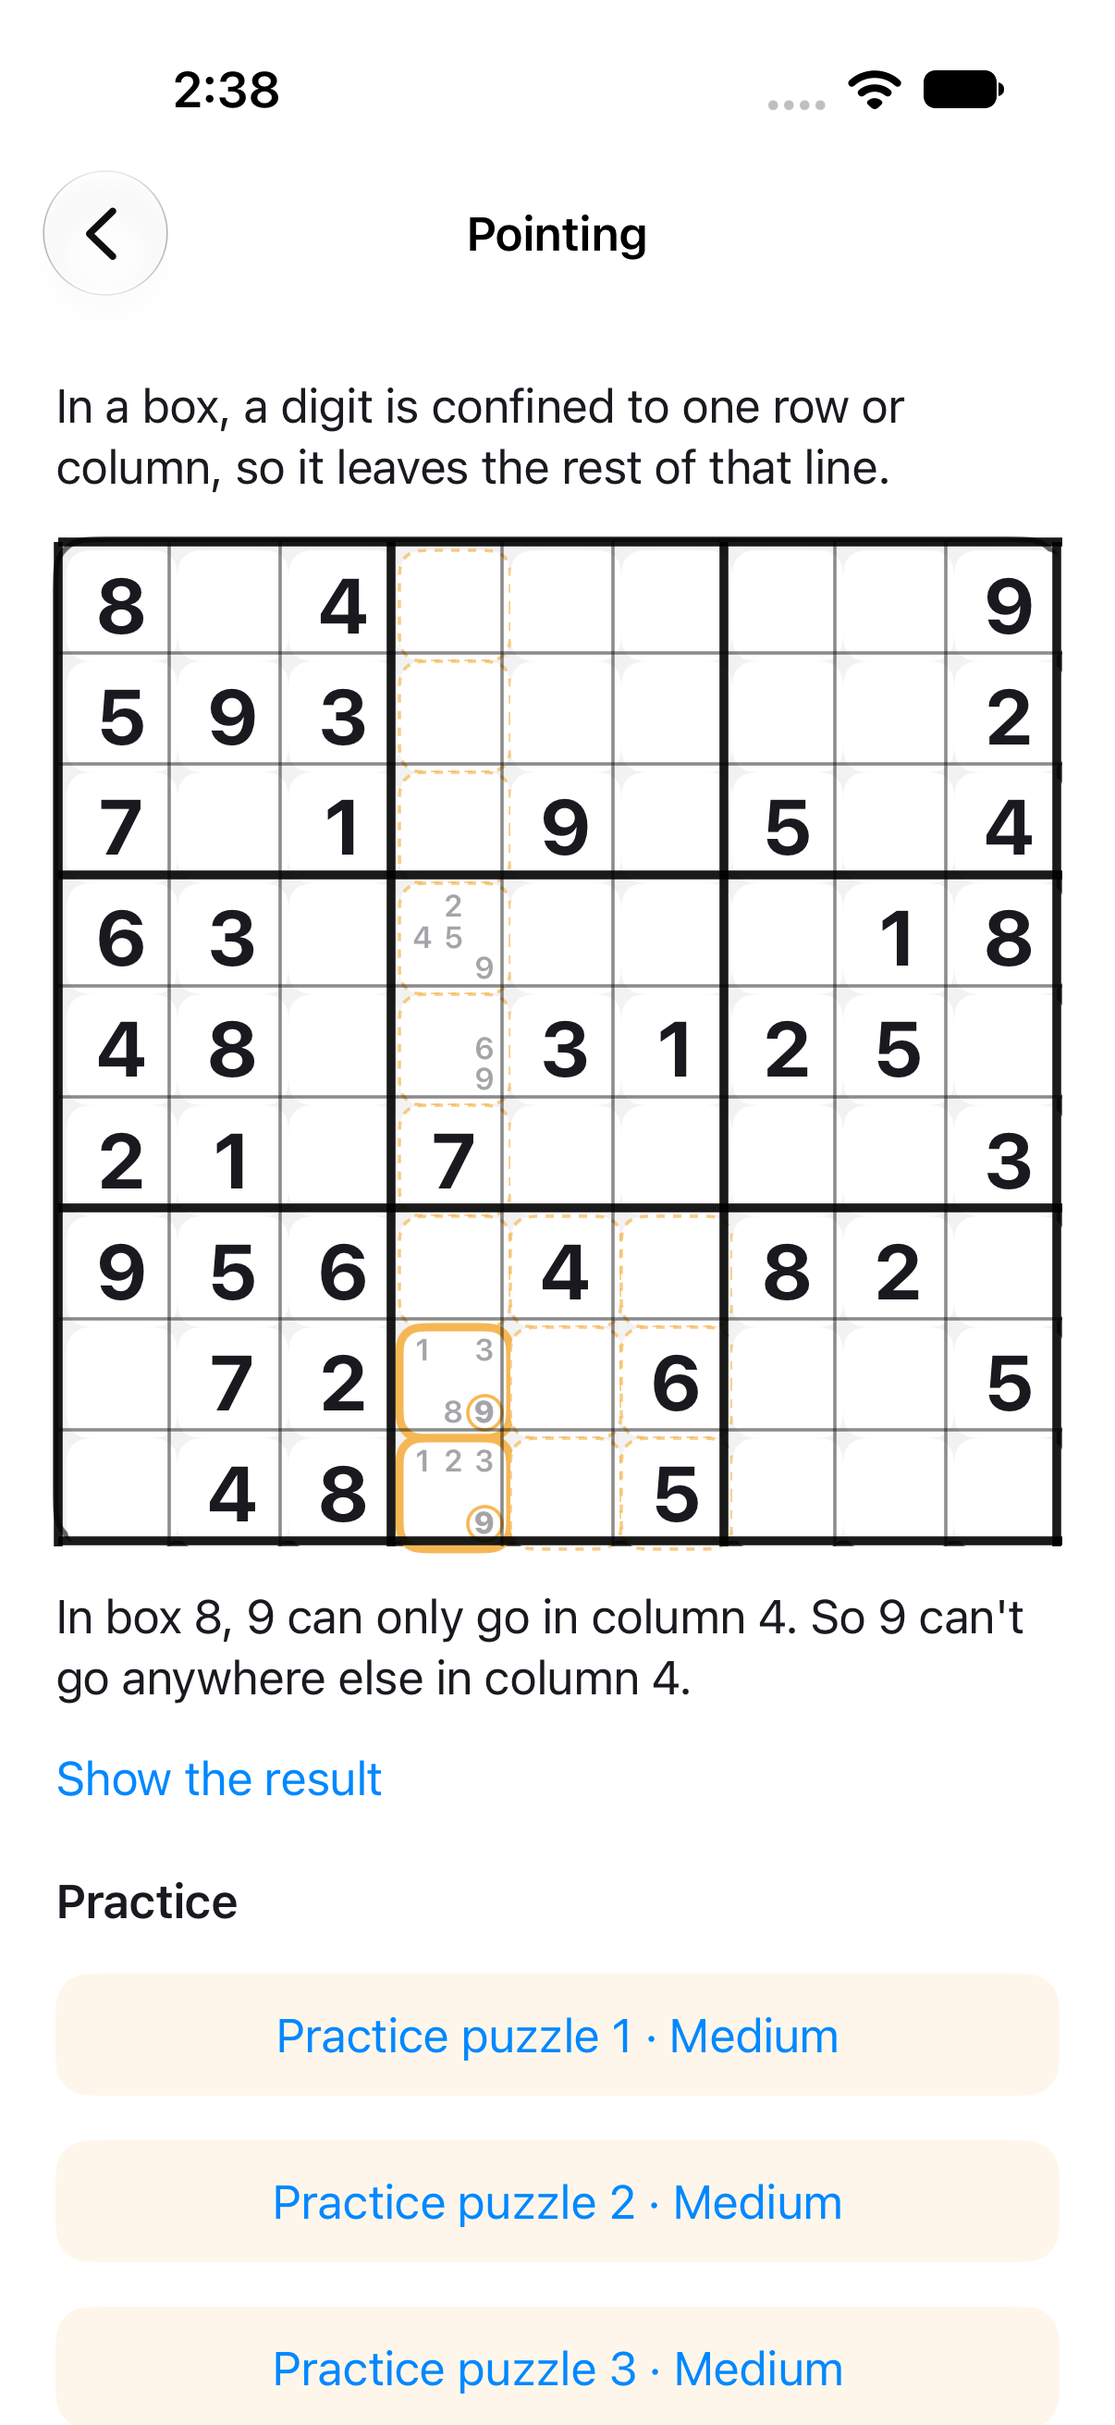
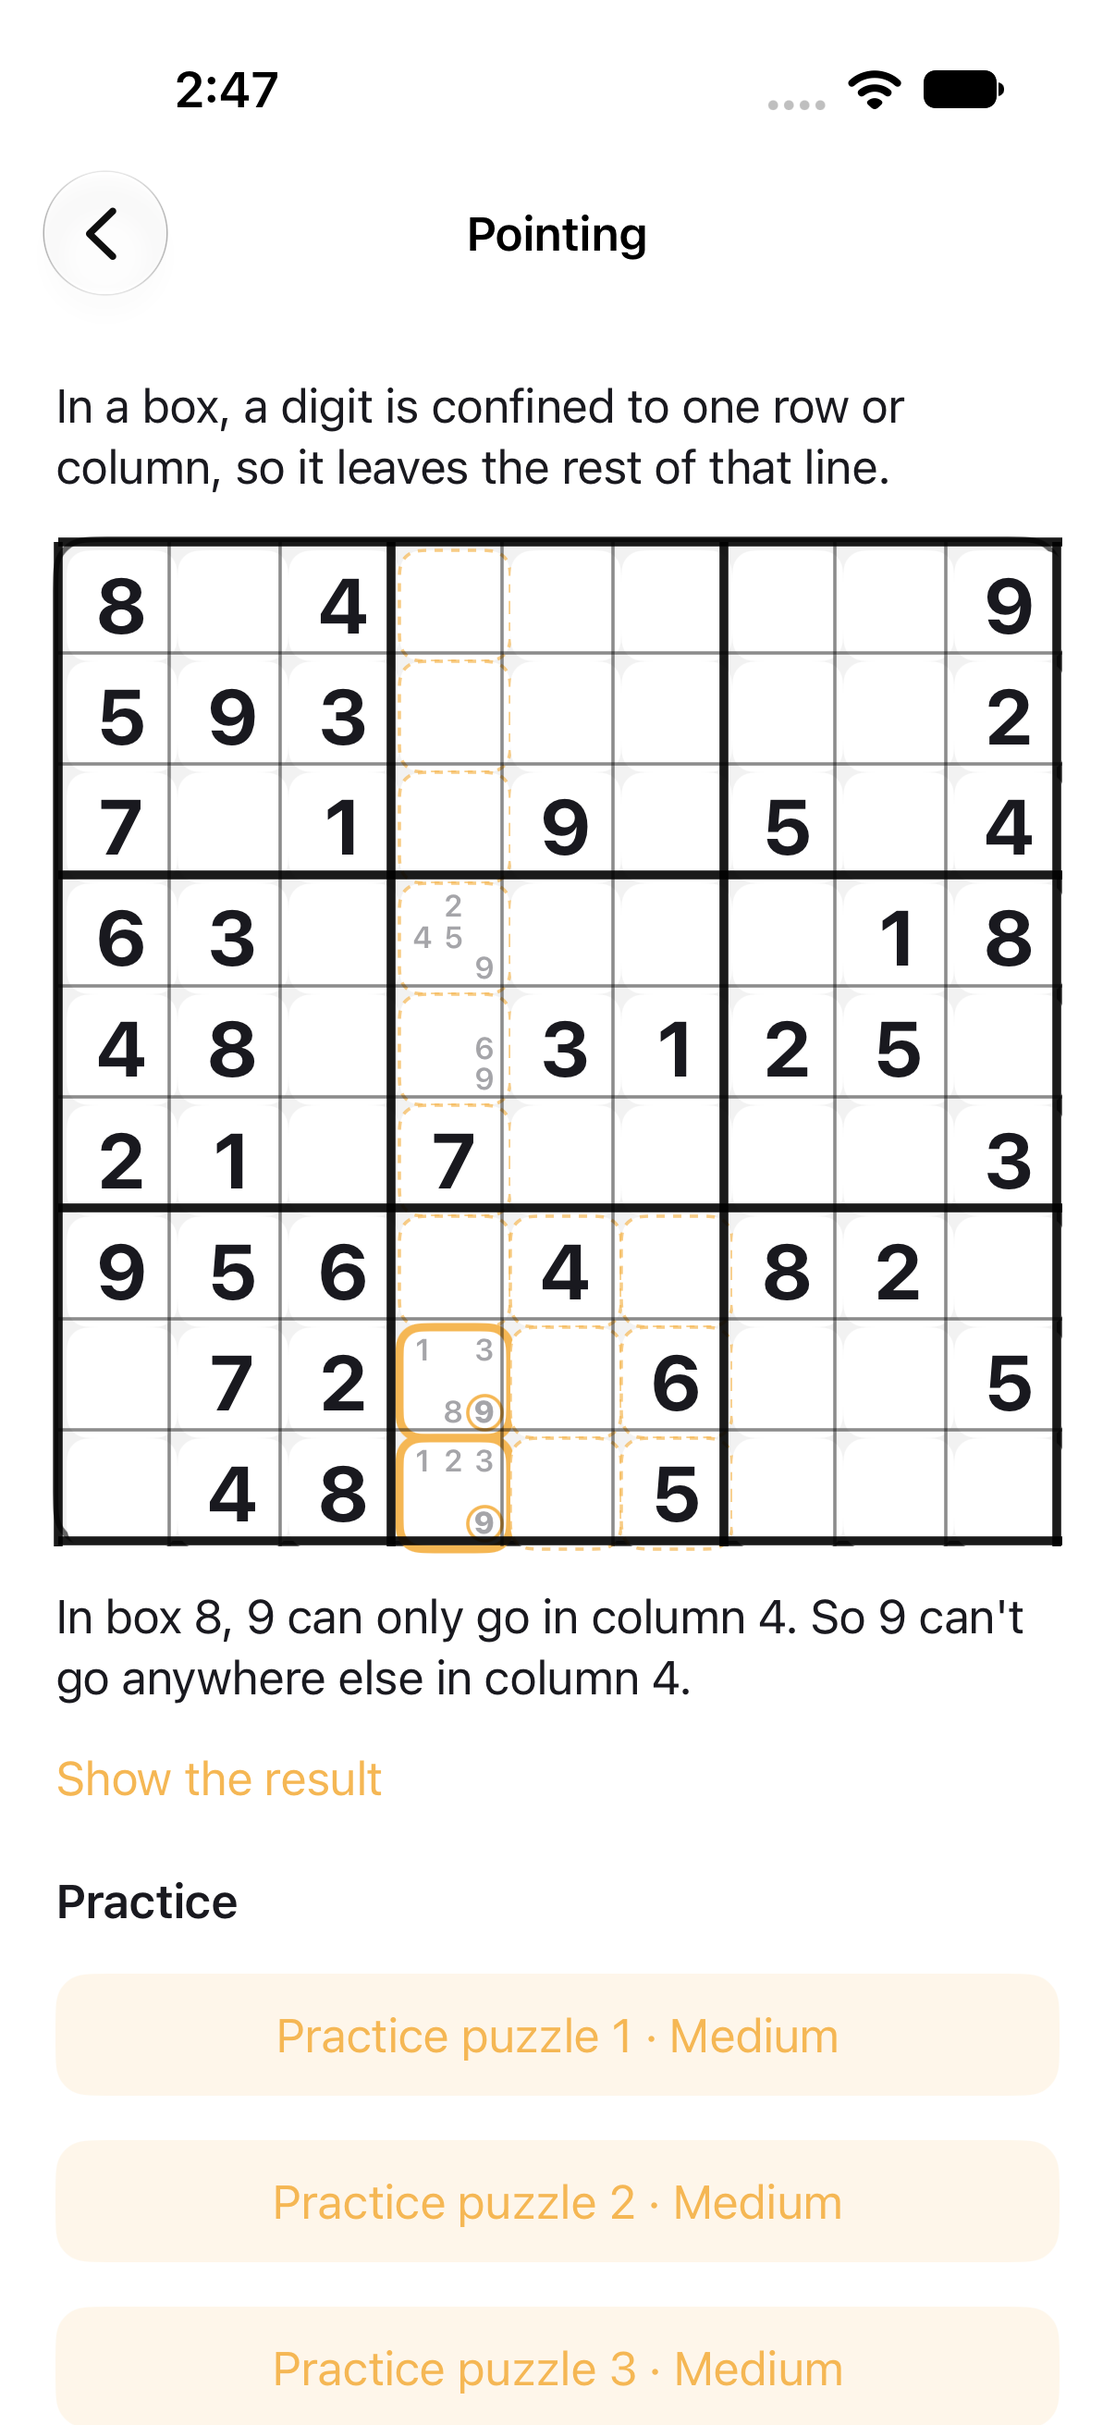
PR 16 review round 1: no credit for hinted techniques all puzzle, safe progress file
- Hinted techniques (this session + saved hint log) earn no credit for the whole puzzle;
  no credit while the board has a mistake; a hint counts once per puzzle.
- Progress file that fails to load is never overwritten this session.
- Theme colors on lesson buttons; practice games hide New Puzzle; practice skips the
  example's puzzle; strength rises once per puzzle; judge only checks techniques that can
  make the move; callback is @MainActor.
- Tests: hinted technique after wrong move + Undo (with positive control), wrong-but-
  possible digit, note-removal credit, replay farming, practice game leaves stats alone,
  practice skips the example.

Claude-Session: https://claude.ai/code/session_017iA73PehBhrGP3gY7T9cgc

diff --git a/Tests/PureSudokuTests/LearningTests.swift b/Tests/PureSudokuTests/LearningTests.swift
@@ -99,16 +99,97 @@ final class LearningTests: XCTestCase {
         XCTAssertTrue([Technique.fullHouse, .hiddenSingleBox, .hiddenSingleLine, .nakedSingle].contains(found()[0]))
     }
 
-    func testAMoveRightAfterItsHintEarnsNoCredit() async throws {
+    /// Places the solver's next single (a correct move nobody hinted) as a positive control.
+    private func placeNextSingle(_ viewModel: GameViewModel) throws {
+        let step = try XCTUnwrap(LogicalSolver().nextStep(SolverBoard(cells: viewModel.state.cells)))
+        let placement = try XCTUnwrap(step.placements.first)
+        viewModel.select(cell: viewModel.state.cells.first { $0.index == placement.cell }!)
+        viewModel.setDigit(placement.digit)
+    }
+
+    /// Waits until `count` credits arrive, then a little longer to catch any extra one.
+    private func settle(_ found: () -> [Technique], count: Int) async {
+        await waitFor { found().count >= count }
+        try? await Task.sleep(nanoseconds: 300_000_000)
+    }
+
+    func testAHintedTechniqueEarnsNoCreditForTheRestOfThePuzzle() async throws {
         let (viewModel, found) = makeViewModel()
         viewModel.requestHint()
         let placement = try XCTUnwrap(viewModel.hint?.step?.placements.first)
         let hinted = try XCTUnwrap(viewModel.hint?.step?.technique)
         viewModel.endHint()
-        viewModel.select(cell: viewModel.state.cells.first { $0.index == placement.cell }!)
+        let target = viewModel.state.cells.first { $0.index == placement.cell }!
+        // A wrong digit, Undo, then the hinted move: none of this may earn credit for the hint.
+        viewModel.select(cell: target)
+        viewModel.setDigit(placement.digit % 9 + 1)
+        viewModel.undo()
+        viewModel.select(cell: target)
         viewModel.setDigit(placement.digit)
-        try await Task.sleep(nanoseconds: 300_000_000)
+        await settle(found, count: 0)
         XCTAssertFalse(found().contains(hinted))
+        // Positive control: an unhinted single of another kind is still credited.
+        var control = 0
+        while control < 30, found().isEmpty {
+            try placeNextSingle(viewModel)
+            await settle(found, count: 0)
+            control += 1
+        }
+        XCTAssertFalse(found().isEmpty, "crediting works at all")
+        XCTAssertFalse(found().contains(hinted), "the hinted technique stays uncredited in this puzzle")
+    }
+
+    func testAWrongButPossibleDigitEarnsNothing() async throws {
+        let (viewModel, found) = makeViewModel()
+        let board = SolverBoard(cells: viewModel.state.cells)
+        let solution = Array(TestData.puzzle.solutionGrid).map { Int(String($0))! }
+        let cell = try XCTUnwrap((0..<81).first { board.values[$0] == 0 && board.candidates[$0].nonzeroBitCount > 1 })
+        let wrong = try XCTUnwrap(SolverBoard.digits(in: board.candidates[cell]).first { $0 != solution[cell] })
+        viewModel.select(cell: viewModel.state.cells.first { $0.index == cell }!)
+        viewModel.setDigit(wrong)
+        // Board now has a mistake, so even a correct single elsewhere earns nothing.
+        try placeNextSingle(viewModel)
+        await settle(found, count: 0)
+        XCTAssertTrue(found().isEmpty)
+    }
+
+    func testRemovingANoteThatPointingExplainsIsCredited() {
+        // Box 1: 5 only in r1c1, r1c2 → pointing removes 5 from r1c4.
+        var candidates = Array(repeating: SolverBoard.allDigits, count: 81)
+        for cell in [2, 9, 10, 11, 18, 19, 20] { candidates[cell] &= ~SolverBoard.bit(5) }
+        let board = SolverBoard(values: Array(repeating: 0, count: 81), candidates: candidates)
+        XCTAssertEqual(MasteryJudge.technique(for: .removedCandidate(cell: 3, digit: 5), on: board), .pointing)
+        XCTAssertNil(MasteryJudge.technique(for: .placed(cell: 3, digit: 5), on: board), "placements only match singles")
+    }
+
+    func testReplayingAMoveDoesNotFarmStrength() {
+        var progress = TechniqueProgress()
+        progress.recordFound(puzzleID: "a", at: start)
+        let once = progress.strength(at: start)
+        progress.recordFound(puzzleID: "a", at: start.addingTimeInterval(10))
+        progress.recordFound(puzzleID: "a", at: start.addingTimeInterval(20))
+        XCTAssertEqual(progress.strength(at: start), once, accuracy: 1e-9)
+    }
+
+    func testPracticeGamesLeaveStatsAndSavedGamesAlone() {
+        let (controller, _) = makeTestController()
+        let games = controller.activeGames
+        let viewModel = controller.makePracticeGameViewModel(BundledPuzzles.puzzles(for: .medium)[0], number: 1)
+        XCTAssertTrue(viewModel.isPractice)
+        viewModel.revealPuzzle()
+        XCTAssertTrue(viewModel.state.isCompleted)
+        XCTAssertEqual(controller.stats, Stats())
+        XCTAssertEqual(controller.activeGames, games)
+    }
+
+    func testLessonPracticeSkipsTheExamplePuzzle() throws {
+        let lesson = try XCTUnwrap(Lesson.make(for: .pointing))
+        let drills = BundledPuzzles.drills(for: .pointing)
+        let example = try XCTUnwrap(drills.first { entry in
+            let start = entry.initialGrid.map { Int(String($0)) ?? 0 }
+            return zip(start, lesson.board.values).allSatisfy { $0 == 0 || $0 == $1 }
+        })
+        XCTAssertFalse(lesson.practice.contains(example))
     }
 
     func testANewTechniqueOpensAtWhyWithALessonOffer() {

diff --git a/PureSudoku/ViewModels/GameViewModel.swift b/PureSudoku/ViewModels/GameViewModel.swift
@@ -13,12 +13,17 @@ final class GameViewModel: ObservableObject {
     var onNewGame: (() async -> GameState?)?
     var onSave: ((GameState) -> Void)?
     /// Learning (CODESPEC 13.4): the player found a technique without a hint (technique, puzzle id).
-    var onTechniqueFound: ((Technique, String) -> Void)?
+    var onTechniqueFound: (@MainActor (Technique, String) -> Void)?
     var onHintShown: ((Technique) -> Void)?
     /// How well the player knows a technique; sets where a hint opens (CODESPEC 6.3.1 fading).
     var learningLevel: ((Technique) -> TechniqueProgress.Level)?
-    /// Techniques hinted since the player's last move: finding them now earns no credit.
-    private var hintedSinceMove: Set<Technique> = []
+    /// Practice game from a lesson: not saved, no stats, no New Puzzle (CODESPEC 13.5).
+    var isPractice = false
+    /// Techniques hinted in this puzzle (this session); with the saved hint log, finding them earns no credit.
+    private var hintedThisPuzzle: Set<Technique> = []
+    private var hintedTechniques: Set<Technique> {
+        hintedThisPuzzle.union(state.hintLog.compactMap { Technique(rawValue: $0.technique) })
+    }
 
     @Published var pendingAction: PendingAction?
     @Published private(set) var canUndo: Bool = false
@@ -446,6 +451,7 @@ final class GameViewModel: ObservableObject {
     func load(state newState: GameState) {
         _ = calculateAndStopTimer()
         checkedWrongIDs.removeAll()
+        hintedThisPuzzle.removeAll()
 
         var finalState = newState
         finalState.cells = finalState.cells.map { cell in
@@ -683,8 +689,8 @@ extension GameViewModel {
                 // Fading: a technique the player has never met opens at "why", as a worked example.
                 let isNew = learningLevel?(step.technique) == .new
                 hint = HintSession(content: .step(step, board: board), opensAtRung: isNew ? 3 : 1, offersLesson: isNew)
-                hintedSinceMove.insert(step.technique)
-                onHintShown?(step.technique)
+                if !hintedTechniques.contains(step.technique) { onHintShown?(step.technique) } // count each once per puzzle
+                hintedThisPuzzle.insert(step.technique)
             } else {
                 hint = HintSession(content: .noStep(cell: revealTarget()))
             }
@@ -757,9 +763,10 @@ extension GameViewModel {
     /// Credits the technique a correct move shows (CODESPEC 13.4). Runs the detectors off the main
     /// thread; a technique hinted since the last move earns nothing.
     private func judgeMove(_ move: MasteryJudge.Move, before board: SolverBoard) {
-        let hinted = hintedSinceMove
-        hintedSinceMove = []
-        guard let onTechniqueFound else { return }
+        // No credit for a technique hinted in this puzzle, or while the board has a mistake (a wrong
+        // digit can make a "single" that only looks found).
+        let hinted = hintedTechniques
+        guard let onTechniqueFound, firstMistake() == nil else { return }
         let solution = Array(state.puzzle.solutionGrid).map { Int(String($0)) ?? 0 }
         guard solution.count == 81 else { return }
         switch move {

diff --git a/PureSudoku/ViewModels/AppController.swift b/PureSudoku/ViewModels/AppController.swift
@@ -9,6 +9,8 @@ final class AppController: ObservableObject {
     @Published private(set) var importedGames: [ImportedGame]
     /// Per-technique learning progress (CODESPEC 13.4), keyed by `Technique.rawValue`.
     @Published private(set) var techniqueProgress: [String: TechniqueProgress]
+    /// True when technique_progress.json could not be loaded: never overwrite it this session.
+    private var techniqueProgressLoadFailed = false
     @Published var lastPersistenceError: (any Error)?
 
     private let persistence: PersistenceManager
@@ -74,6 +76,7 @@ final class AppController: ObservableObject {
             self.techniqueProgress = try persistence.load([String: TechniqueProgress].self, from: File.techniqueProgress.rawValue) ?? [:]
         } catch {
             self.techniqueProgress = [:]
+            self.techniqueProgressLoadFailed = true
             self.lastPersistenceError = error
         }
         countSolutionsOfOldImports()
@@ -122,6 +125,7 @@ final class AppController: ObservableObject {
         )
         let viewModel = GameViewModel(state: GameState.newGame(for: puzzle, now: timeProvider.now()), settings: settings,
                                       validator: validator, timeProvider: timeProvider, hintService: generatorService)
+        viewModel.isPractice = true
         connectLearning(viewModel)
         return viewModel
     }
@@ -144,6 +148,7 @@ final class AppController: ObservableObject {
         var progress = progress(for: technique)
         change(&progress)
         techniqueProgress[technique.rawValue] = progress
+        guard !techniqueProgressLoadFailed else { return }
         do {
             try persistence.save(techniqueProgress, to: File.techniqueProgress.rawValue)
         } catch {

diff --git a/PureSudoku/Models/TechniqueProgress.swift b/PureSudoku/Models/TechniqueProgress.swift
@@ -35,12 +35,12 @@ struct TechniqueProgress: Codable, Equatable {
 
     mutating func recordFound(puzzleID: String, at date: Date, calendar: Calendar = .current) {
         let day = Self.dayKey(date, calendar: calendar)
-        if !foundUnaided.contains(where: { $0.puzzleID == puzzleID }) {
-            foundUnaided.append(Found(puzzleID: puzzleID, day: day))
-        }
+        lastSeen = date
+        // Once per puzzle: replaying a move (e.g. after Undo) doesn't add strength.
+        guard !foundUnaided.contains(where: { $0.puzzleID == puzzleID }) else { return }
+        foundUnaided.append(Found(puzzleID: puzzleID, day: day))
         strength = min(1, strength(at: date) + 0.34)
         strengthDate = date
-        lastSeen = date
     }
 
     mutating func recordHint(at date: Date) {
@@ -65,7 +65,13 @@ enum MasteryJudge {
     }
 
     static func technique(for move: Move, on board: SolverBoard, allowsUniqueness: Bool = true) -> Technique? {
-        for technique in Technique.allCases where allowsUniqueness || !technique.needsUniqueSolution {
+        // Only singles and BUG+1 place digits; every other technique only removes candidates.
+        let placers: Set<Technique> = [.fullHouse, .hiddenSingleBox, .hiddenSingleLine, .nakedSingle, .bugPlusOne]
+        let candidates = Technique.allCases.filter { technique in
+            if case .placed = move { return placers.contains(technique) }
+            return !placers.contains(technique)
+        }
+        for technique in candidates where allowsUniqueness || !technique.needsUniqueSolution {
             let steps = LogicalSolver.steps(for: technique, on: board)
             let matches = steps.contains { step in
                 switch move {

diff --git a/PureSudoku/Views/LearnView.swift b/PureSudoku/Views/LearnView.swift
@@ -94,8 +94,10 @@ struct LessonView: View {
                             .font(.body.weight(.semibold))
                             .foregroundColor(theme.accent)
                     } else {
-                        Button("Show the result") { showsResult = true }
-                            .accessibilityIdentifier("lesson_showResult")
+                        Button { showsResult = true } label: {
+                            Text("Show the result").foregroundColor(theme.accent)
+                        }
+                        .accessibilityIdentifier("lesson_showResult")
                     }
                     Text("Practice").font(.headline).foregroundColor(theme.primaryText).padding(.top, 8)
                     ForEach(Array(lesson.practice.enumerated()), id: \.offset) { index, entry in
@@ -103,6 +105,7 @@ struct LessonView: View {
                             GameView(viewModel: controller.makePracticeGameViewModel(entry, number: index + 1), difficulty: entry.difficulty)
                         } label: {
                             Text("Practice puzzle \(index + 1) · \(entry.difficulty.displayName)")
+                                .foregroundColor(theme.accent)
                                 .frame(maxWidth: .infinity, minHeight: 44)
                                 .background(theme.accent.opacity(0.12))
                                 .clipShape(RoundedRectangle(cornerRadius: 12))

diff --git a/PureSudoku/ViewModels/Lesson.swift b/PureSudoku/ViewModels/Lesson.swift
@@ -22,7 +22,9 @@ struct Lesson {
             let solver = LogicalSolver()
             while let step = solver.nextStep(board) {
                 if step.technique == technique || (technique == .hiddenSingleBox && step.technique == .hiddenSingleLine) {
-                    return Lesson(technique: technique, board: board, step: step, practice: Array(drills.prefix(3)))
+                    // Practice uses other puzzles: the example's answer is already shown.
+                    let practice = drills.filter { $0.initialGrid != entry.initialGrid }.prefix(3)
+                    return Lesson(technique: technique, board: board, step: step, practice: Array(practice))
                 }
                 board.apply(step)
             }

diff --git a/PureSudoku/Views/GameView.swift b/PureSudoku/Views/GameView.swift
@@ -113,7 +113,7 @@ struct GameView: View {
                     Button("Reset Puzzle", role: .destructive) {
                         viewModel.pendingAction = .reset
                     }
-                    if viewModel.state.puzzle.source != .imported {
+                    if viewModel.state.puzzle.source != .imported && !viewModel.isPractice {
                         Button("New Puzzle") {
                             viewModel.pendingAction = .newPuzzle
                         }

diff --git a/CODESPEC.md b/CODESPEC.md
@@ -936,7 +936,7 @@ PureSudoku teaches the solving techniques from the Sudoku literature. A hint tea
 	•	The last resort (Bowman’s Bingo) can return no hint.
 
 13.4 Mastery
-	•	A technique is mastered when the player has found it without a hint in 3 different puzzles on 3 different days. “Found” means: on the board just before the player’s move (a correct placement, or removing a wrong note), some step of some technique makes exactly that change, and no hint for that technique was shown since the player’s previous move. The credit goes to the simplest such technique (curriculum order). Checking every step, not only nextStep’s first, lets techniques like Naked Single earn credit even when another single comes first. The check runs off the main thread.
+	•	A technique is mastered when the player has found it without a hint in 3 different puzzles on 3 different days. “Found” means: on the board just before the player’s move (a correct placement, or removing a wrong note), some step of some technique makes exactly that change, and no hint for that technique was shown in this puzzle, and the board has no mistake. The credit goes to the simplest such technique (curriculum order). Checking every step, not only nextStep’s first, lets techniques like Naked Single earn credit even when another single comes first. The check runs off the main thread.
 	•	Each technique has a strength value (0–1) that decays over time (half-life model). Strength rises when found unaided and falls when a hint for it is needed.
 	•	When strength falls low, the Learn screen offers an optional review drill. No streak alarms, no notifications.
 
